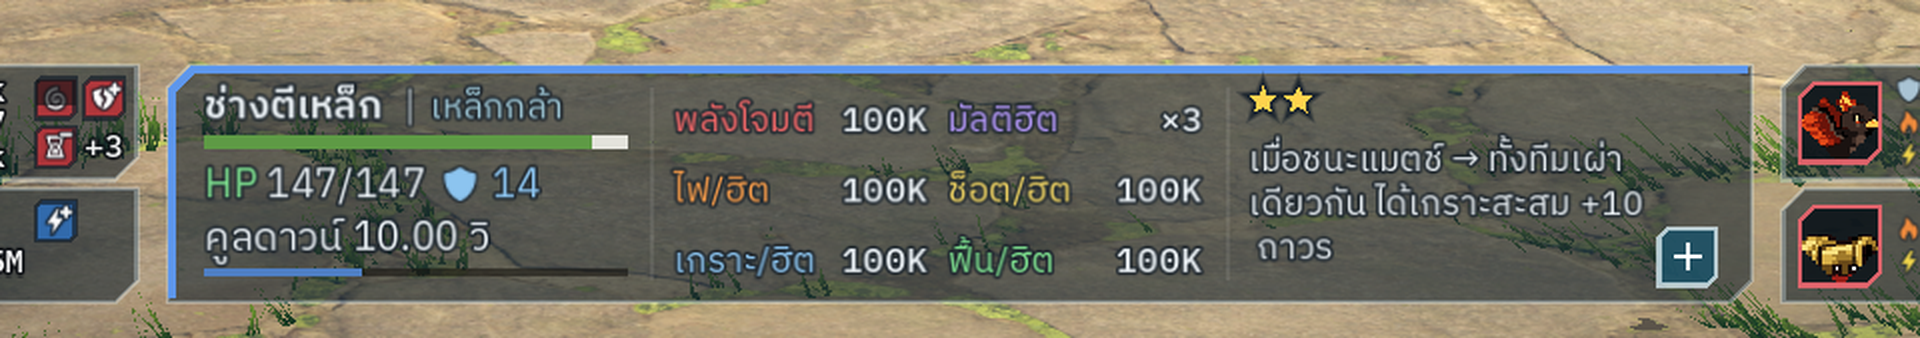
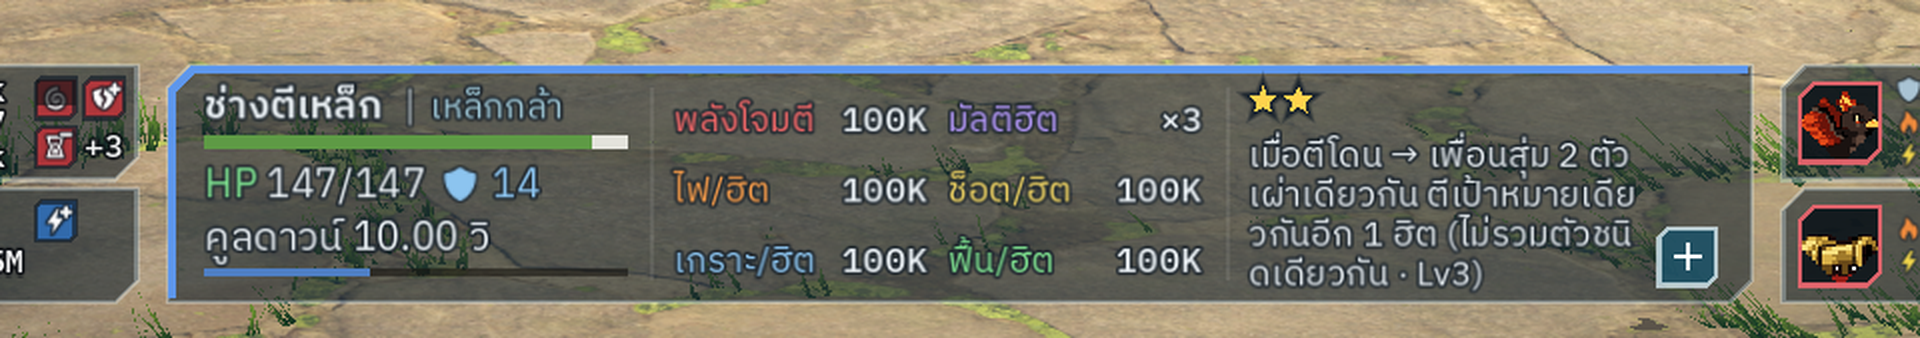
set 299 r35z5: panel pages (skill chunks + status pages), fixed burn|shock row (sample)

Changed region(s): [[0.625, 0.3846, 0.875, 0.858], [0.1875, 0.7988, 0.2188, 0.8284]]

diff --git a/claude/preview-set268/r35d-m/s299r35z-patch.py b/claude/preview-set268/r35d-m/s299r35z-patch.py
@@ -11,7 +11,7 @@ def rep(a, b):
 
 # input: tap the box at the bottom-right = flip page
 rep('\tif OS.get_environment("S297") != "0" and _con_r.has_point(p):   # s297: the console stays, tap = nothing',
-    '\tif picked >= 0 and _pgbtn.has_point(p):   # s299 r35z: page flip\n\t\t_pg299 = 1 - _pg299\n\t\tget_viewport().set_input_as_handled()\n\t\treturn\n'
+    '\tif picked >= 0 and _pgbtn.has_point(p):   # s299 r35z: page flip\n\t\t_pg299 = (_pg299 + 1) % maxi(1, _pgn299)\n\t\tget_viewport().set_input_as_handled()\n\t\treturn\n'
     '\tif OS.get_environment("S297") != "0" and _con_r.has_point(p):   # s297: the console stays, tap = nothing')
 rep('func _console4(R: Rect2) -> void:\n\tif R.size.x <= 0.0: return',
     'func _console4(R: Rect2) -> void:\n\t_pgbtn = Rect2()\n\tif R.size.x <= 0.0: return')
@@ -48,7 +48,9 @@ s = s[:a] + '\t_area299(R, v, RT + 10.0, ink, mute)   # s299 r35z: middle + righ
 
 new_fn = '''
 # ---------- s299 r35z: merged middle + right box, 2 pages ----------
-var _pg299 := 1 if OS.get_environment("S299PAGE") == "1" else 0
+var _pg299 := 0
+var _pgn299 := 1
+var _pginit := false   # env S299PAGE: s = first status page, or a page number (stills)
 var _pgbtn := Rect2()
 
 func _wrap299(t: String, fs: int, maxw: float) -> Array:   # Thai has no spaces: break by measured width, never before a vowel / tone mark, never after a leading vowel
@@ -81,14 +83,35 @@ func _area299(R: Rect2, v: Dictionary, L2: float, ink: Color, mute: Color) -> vo
 	var bp := _cutpts299(br, 2.0)
 	_pn_layer.draw_colored_polygon(bp, Color("#1f5266", 0.92))
 	_pn_layer.draw_polyline(bp + PackedVector2Array([bp[0]]), Color("#d6e8ee", 0.8), 1.0)
-	var bc := br.get_center()
-	_pn_layer.draw_rect(Rect2(bc.x - 3.0, bc.y - 0.5, 6.0, 1.0), Color(1, 1, 1, 1))
-	if _pg299 == 0: _pn_layer.draw_rect(Rect2(bc.x - 0.5, bc.y - 3.0, 1.0, 6.0), Color(1, 1, 1, 1))   # "+" on the skill page, "−" on the stats page
 	var top := y + 14.0   # skill text starts under the stars
-	var vtop := y + 4.0   # owner: the other boxes do not wait for the stars — original rows, pitch 16
+	var vtop := y + 4.0   # the values do not wait for the stars
 	var cw2 := 58.0
 	var L3 := L2 + cw2 * 2.0 + 4.0 + 10.0
-	if _pg299 == 0:   # page 1: middle = the 6 values (3 rows x 2) · right = the unit's skill (game text for its level)
+	# pages: skill chunks (4 lines each) first, then status pages (fixed top row burn | shock, bottom row = 2 buff / debuff chips per page)
+	var sid := OS.get_environment("S299SKID") if OS.get_environment("S299SKID") != "" else str(v.get("id"))   # S299SKID / S299LV = test a long skill
+	var lv := maxi(1, OS.get_environment("S299LV").to_int() if OS.get_environment("S299LV") != "" else int(v.get("level", 1)))
+	var groups: Variant = TH.labels().get("skills", {}).get(sid)
+	var lines := []
+	if groups is Array:
+		for g in groups:
+			var on: bool = g.get("lv") == null or (g["lv"] is Array and g["lv"].has(float(lv)))
+			if not on: continue
+			var txts: Array = g["text"]
+			for ln in _wrap299(String(txts[clampi(lv - 1, 0, txts.size() - 1)]), 8, RT - L3 - 16.0): lines.append(ln)
+	var chunks := maxi(1, int(ceil(float(lines.size()) / 4.0)))
+	var effs: Array = _effects(v)
+	var stp := maxi(1, int(ceil(float(effs.size()) / 2.0)))
+	_pgn299 = chunks + stp
+	if not _pginit:
+		_pginit = true
+		var pe := OS.get_environment("S299PAGE")
+		if pe == "s": _pg299 = chunks
+		elif pe != "": _pg299 = pe.to_int()
+	var pg := clampi(_pg299, 0, _pgn299 - 1)
+	var bc := br.get_center()   # flip box mark: "+" while more pages follow, "−" on the last one (back to the first)
+	_pn_layer.draw_rect(Rect2(bc.x - 3.0, bc.y - 0.5, 6.0, 1.0), Color(1, 1, 1, 1))
+	if pg < _pgn299 - 1: _pn_layer.draw_rect(Rect2(bc.x - 0.5, bc.y - 3.0, 1.0, 6.0), Color(1, 1, 1, 1))
+	if pg < chunks:   # skill page: middle = the 6 values (3 rows x 2) · right = the unit's skill chunk, stars on top
 		var sl := _slots(v)
 		for i in sl.size():
 			var gx := L2 + (0.0 if i % 2 == 0 else cw2 + 4.0)
@@ -97,57 +120,53 @@ func _area299(R: Rect2, v: Dictionary, L2: float, ink: Color, mute: Color) -> vo
 			_dtxt(Vector2(gx, gy + 11.0), String(PN299_W.get(kd, kd)), 8, TAG_COL3.get(kd, INK))
 			_dnum(Vector2(0, gy + 11.0), String(sl[i][1]) if sl[i][2] else "-", 8, ink, gx + cw2)
 		_pn_layer.draw_rect(Rect2(L3 - 5.0, y + 5.0, 1.0, R.size.y - 10.0), Color(1, 1, 1, 0.08))
-		var nlv := clampi(int(v.get("level", 1)), 1, 5)   # owner: stars belong to the skill box (gone on page 2)
+		var nlv := clampi(int(v.get("level", 1)), 1, 5)   # owner: stars belong to the skill box
 		for i in nlv: _star299(Vector2(L3 + 3.5 + float(i) * 8.0, y + 8.0), 3.4)
-		var groups: Variant = TH.labels().get("skills", {}).get(str(v.get("id")))
-		var lv := maxi(1, int(v.get("level", 1)))
-		var lines := []
-		if groups is Array:
-			for g in groups:
-				var on: bool = g.get("lv") == null or (g["lv"] is Array and g["lv"].has(float(lv)))
-				if not on: continue
-				var txts: Array = g["text"]
-				for ln in _wrap299(String(txts[clampi(lv - 1, 0, txts.size() - 1)]), 8, RT - L3 - 16.0): lines.append(ln)
-		if lines.is_empty():
-			_dtxt(Vector2(L3, top + 10.0), "ไม่มีสกิล", 9, mute)
-		for i in mini(lines.size(), 4):
-			var t: String = lines[i]
-			if i == 3 and lines.size() > 4: t = _fit_txt(t + "…", 8, RT - L3 - 16.0)
-			_dtxt(Vector2(L3, top + 10.0 + float(i) * 10.0), t, 8, ink)
+		if lines.is_empty(): _dtxt(Vector2(L3, top + 10.0), "ไม่มีสกิล", 9, mute)
+		for i in range(pg * 4, mini(lines.size(), pg * 4 + 4)):
+			_dtxt(Vector2(L3, top + 9.0 + float(i - pg * 4) * 9.0), String(lines[i]), 8, ink)
 		return
-	# page 2: middle + right merged = status (burn / shock numbers, then buff / debuff chips), 3 rows x 3 columns, column-major
-	var cw3 := (RT - L2 - 12.0) / 3.0
-	var items := []
+	# status page: middle + right merged, 2 rows x 2 (left | right)
+	var sp := pg - chunks
+	var cwc := (RT - 18.0 - L2 - 8.0) * 0.5
+	var bn := "0"
+	var sk := "0"
 	for q in _row1(v):
-		if String(q[0]) == "armor": continue   # owner: only burn / shock come back, armour stays on the HP line
-		items.append(["n", String(q[0]), String(L4_NUM.get(q[0], q[0])), String(q[1]), true, ""])
-	for e in _effects(v): items.append(["e", String(e[1]), _short4(e), "", bool(e[2]), String(e[5])])
-	if items.is_empty(): _dtxt(Vector2(L2, vtop + 11.0), "ไม่มีสถานะ", 8, mute)
-	var cap := 8   # slot 9 = the flip box
-	var shown := mini(items.size(), cap if items.size() <= cap else cap - 1)
-	for i in shown:
-		var gx := L2 + float(i / 3) * (cw3 + 6.0)
-		var gy := vtop + float(i % 3) * 16.0
-		var it: Array = items[i]
-		if it[0] == "n":   # burn / shock numbers are back: word in its kind hue + number
-			var kc: Color = TAG_COL3.get(_l4_col(String(it[1])), INK)
-			_dtxt(Vector2(gx, gy + 11.0), String(it[2]), 8, kc)
-			_dnum(Vector2(0, gy + 11.0), String(it[3]), 8, ink, gx + cw3 - 10.0)
-			continue
-		var cr := Rect2(gx, gy + 1.0, 11.0, 11.0)   # same chip as on the cards: cut 15 %, baked icon, small + / −
+		if String(q[0]) == "burn": bn = String(q[1])
+		if String(q[0]) == "shock": sk = String(q[1])
+	_stline299(L2, y + 9.0, cwc, "burn", "โดนดาเมจ", bn, "/ วิ", TAG_COL3.get("burn", INK), bn != "0")
+	_stline299(L2 + cwc + 8.0, y + 9.0, cwc, "shock", "โดนดาเมจไม่สนเกราะ", sk, "", TAG_COL3.get("shock", INK), sk != "0")
+	_pn_layer.draw_rect(Rect2(L2, y + 28.0, RT - 18.0 - L2, 1.0), Color(1, 1, 1, 0.08))
+	if effs.is_empty(): _dtxt(Vector2(L2, y + 42.0), "ไม่มีบัฟ / ดีบัฟ", 8, mute)
+	for c in 2:
+		var ei := sp * 2 + c
+		if ei >= effs.size(): break
+		var e: Array = effs[ei]
+		var gx := L2 + float(c) * (cwc + 8.0)
+		var gy := y + 33.0
+		var cr := Rect2(gx, gy, 11.0, 11.0)   # same chip as on the cards: cut 15 %, baked icon, small + / −
 		var cpp := _cutpts299(cr, 11.0 * 0.15)
-		_pn_layer.draw_colored_polygon(cpp, Color("#2f6db5", 0.92) if it[4] else Color("#b8343a", 0.92))
+		_pn_layer.draw_colored_polygon(cpp, Color("#2f6db5", 0.92) if bool(e[2]) else Color("#b8343a", 0.92))
 		_pn_layer.draw_polyline(cpp + PackedVector2Array([cpp[0]]), Color(OUT, 0.7), 1.0)
-		var cio := icon_tex("n_" + String(it[1]) + "_o")
-		var cif := icon_tex("n_" + String(it[1]))
+		var cio := icon_tex("n_" + String(e[1]) + "_o")
+		var cif := icon_tex("n_" + String(e[1]))
 		if cio != null: _pn_layer.draw_texture_rect(cio, cr, false, Color(OUT, OUT.a))
 		if cif != null: _pn_layer.draw_texture_rect(cif, cr, false, Color(1, 1, 1, 0.97))
-		if String(it[5]) != "":
-			var cmk := icon_tex("n_plus" if String(it[5]) == "+" else "n_minus")
+		if String(e[5]) != "":
+			var cmk := icon_tex("n_plus" if String(e[5]) == "+" else "n_minus")
 			if cmk != null: _pn_layer.draw_texture_rect(cmk, cr, false, Color(1, 1, 1, 1))
-		_dtxt(Vector2(gx + 14.0, gy + 11.0), _fit_txt(String(it[2]), 8, cw3 - 14.0), 8, ink)
-	if items.size() > cap:
-		_dtxt(Vector2(L2 + 2.0 * (cw3 + 6.0), vtop + 11.0 + 16.0), "+%d อย่าง" % (items.size() - shown), 8, mute)
+		_dtxt(Vector2(gx + 14.0, gy + 10.0), _fit_txt(_short4(e), 8, cwc - 14.0), 8, ink)
+
+func _stline299(gx: float, gy: float, w: float, key: String, label: String, num: String, suffix: String, kc: Color, on: bool) -> void:   # fire / bolt symbol + "โดนดาเมจ X / วิ"
+	var a := 1.0 if on else 0.45
+	_dicon(Vector2(gx + 5.5, gy + 6.0), key, 11.0, a, kc)
+	var nw := TH.font("mono").get_string_size(num, HORIZONTAL_ALIGNMENT_LEFT, -1, 9).x
+	var sw := TH.font("body").get_string_size(suffix, HORIZONTAL_ALIGNMENT_LEFT, -1, 8).x + (3.0 if suffix != "" else 0.0)
+	var lab := _fit_txt(label, 8, w - 14.0 - nw - sw - 4.0)
+	var lw := TH.font("body").get_string_size(lab, HORIZONTAL_ALIGNMENT_LEFT, -1, 8).x
+	_dtxt(Vector2(gx + 14.0, gy + 10.0), lab, 8, Color(INK, a))
+	_dnum(Vector2(0, gy + 10.0), num, 9, Color(kc, a), gx + 14.0 + lw + 4.0 + nw)
+	if suffix != "": _dtxt(Vector2(gx + 14.0 + lw + 4.0 + nw + 3.0, gy + 10.0), suffix, 8, Color(INK, a))
 
 '''
 rep('\nfunc _stone297(', new_fn + '\nfunc _stone297(')

diff --git a/claude/preview-set268/notes.md b/claude/preview-set268/notes.md
@@ -287,3 +287,4 @@ Rebuild adds → s299r35w10-patch.py (after s299r35w9).
 112. (set 299, round 35z2, pending owner OK) Owner redo of note 111: page 1 = middle box (the 6 values 3×2: พลังโจมตี / มัลติฮิต …) + right box = the unit's skill ("กล่องซ้าย" read as the right box — the left name column stays fixed) · page 2 = middle + right merged = status: burn / shock numbers + buff / debuff chips, 3 rows × 3 columns column-major, max 8 then "+N อย่าง" (slot 9 = flip box) · stars on top of the box on both pages · flip box "+" (page 1) / "−" (page 2). Same patch file s299r35z-patch.py (rewritten, after s299r35y; shots need S297E=4 or the plate is missing). Shots S299z-p0.png (values + skill) · S299z-p1.png (status). Seen: skill text wraps in ~3 lines at ~28 chars; long chip words ("รับเกราะ −30%…") still cut on page 2.
 113. (set 299, round 35z3, pending owner OK) Owner: the stars always belong to the skill box — when the skill box is replaced (page 2) the stars go too. Stars now drawn at the top of the skill box on page 1 only; page 2 has none. Same patch file s299r35z-patch.py. Shots S299z-p0.png / S299z-p1.png.
 114. (set 299, round 35z4, pending owner OK) Owner: why do the other boxes keep a gap for the stars? → the 6 values (page 1) and the status grid (page 2) go back to the original rows (top y+4, pitch 16, spread over the full box height); only the skill text sits under its stars. Hairline before the skill box full height. Same patch file s299r35z-patch.py. Shots S299z-p0.png / S299z-p1.png.
+115. (set 299, round 35z5, pending owner OK) Owner: skill box = right (confirmed) · test a long skill · page 2 = 2 rows left|right · more than fits → "+" stays to see the rest, last page "−" back · first two values fixed. Built: pages = skill chunks (4 lines each, values box + stars stay) then status pages; status page = FIXED top row: fire symbol "โดนดาเมจ X / วิ" (burn count, per game rule: damage every 1 s = burn count) | bolt symbol "โดนดาเมจไม่สนเกราะ X" (shock count, ignores armour) — dim with 0 when none · bottom row = 2 buff / debuff chips per page (note 110 chip) · "+" while more pages follow, "−" on the last page (tap = next, last → first) · skill lines pitch 9 so 4 lines fit. Test envs: S299SKID=PT-6 S299LV=3 (long skill, fits 4 lines = 1 chunk), S299PAGE=s (first status page) or a page number. Shots S299z-p0.png (PT-6 Lv3 skill) · S299z-p1.png (status page 1) · S299z83.png (last status page "−"). Seen: shock label "โดนดาเมจไม่สนเกราะ" just fits with a big number; a skill over 4 lines now pages (not seen — PT-6 is the longest at 4).
